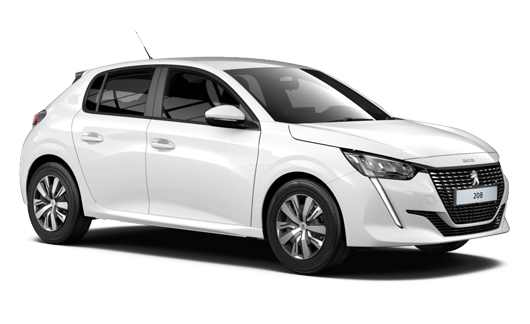
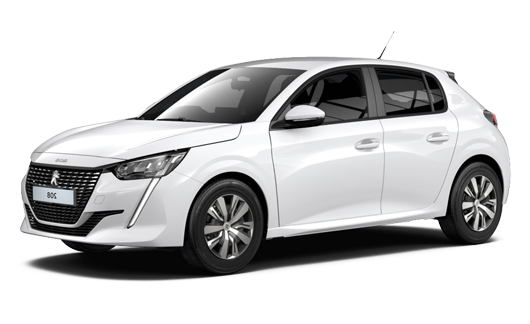
Fotos Añadidas

diff --git a/public/coches.html b/public/coches.html
@@ -64,24 +64,28 @@
                         <span>McLaren 540c</span>
                 </a>
                 <a href="./coche.html" class="coche">
-                    <img src="../src/mclaren540c.jpeg" alt="">
+                    <img src="../src/bmwM8.png" alt="">
                         <span>BMW M8</span>
                 </a>
                 <a href="./coche.html" class="coche">
-                    <img src="../src/mclaren540c.jpeg" alt="">
-                        <span>BMW M8</span>
+                    <img src="../src/audiR8V10.png" alt="">
+                        <span>Audi R8 V10</span>
                 </a>
                 <a href="./coche.html" class="coche">
-                    <img src="../src/mclaren540c.jpeg" alt="">
-                        <span>BMW M8</span>
+                    <img src="../src/jaguarFType.png" alt="">
+                        <span>Jaguar F Type</span>
                 </a>
                 <a href="./coche.html" class="coche">
-                    <img src="../src/mclaren540c.jpeg" alt="">
-                        <span>BMW M8</span>
+                    <img src="../src/porsche-taycan-turbo-s.jpg" alt="">
+                        <span>Porsche Taycan </span>
                 </a>
                 <a href="./coche.html" class="coche">
-                    <img src="../src/mclaren540c.jpeg" alt="">
-                        <span>BMW M8</span>
+                    <img src="../src/mercedesAMGGT.jpg" alt="">
+                        <span>Mercedes AMG GT</span>
+                </a>
+                <a href="./coche.html" class="coche">
+                    <img src="../src/teslaModelS.png" alt="">
+                        <span>Tesla Model S</span>
                 </a>
 
                 <div class="space"></div>
@@ -92,32 +96,32 @@
             <div class="scrollmost">
                 <div class="space"></div>
                 <a href="./coche.html" class="coche">
-                    <img src="../src/mclaren540c.jpeg" alt="">
-                        <span>McLaren 540c</span>
+                    <img src="../src/audiA7.png" alt="">
+                        <span>Audi A7</span>
                 </a>
                 <a href="./coche.html" class="coche">
-                    <img src="../src/mclaren540c.jpeg" alt="">
-                        <span>BMW M8</span>
+                    <img src="../src/mercedesCLA.png" alt="">
+                        <span>Mercedes CLA</span>
                 </a>
                 <a href="./coche.html" class="coche">
-                    <img src="../src/mclaren540c.jpeg" alt="">
-                        <span>BMW M8</span>
+                    <img src="../src/hondaAccord.png" alt="">
+                        <span>Honda Accord</span>
                 </a>
                 <a href="./coche.html" class="coche">
-                    <img src="../src/mclaren540c.jpeg" alt="">
-                        <span>BMW M8</span>
+                    <img src="../src/peugeot208.png" alt="">
+                        <span>Peugeot 208</span>
                 </a>
                 <a href="./coche.html" class="coche">
-                    <img src="../src/mclaren540c.jpeg" alt="">
-                        <span>BMW M8</span>
+                    <img src="../src/porschePanamera.png" alt="">
+                        <span>Porsche Panamera</span>
                 </a>
                 <a href="./coche.html" class="coche">
-                    <img src="../src/mclaren540c.jpeg" alt="">
-                        <span>BMW M8</span>
+                    <img src="../src/rollsroycePhantom.png" alt="">
+                        <span>Rolls Royce Phantom</span>
                 </a>
                 <a href="./coche.html" class="coche">
-                    <img src="../src/mclaren540c.jpeg" alt="">
-                        <span>BMW M8</span>
+                    <img src="../src/teslaModel3.jpg" alt="">
+                        <span>Tesla Model 3</span>
                 </a>
                 
                 <div class="space"></div>

diff --git a/public/index.html b/public/index.html
@@ -85,28 +85,28 @@
                         <span>McLaren 540c</span>
                 </a>
                 <a href="./coche.html" class="coche">
-                    <img src="../src/mclaren540c.jpeg" alt="">
+                    <img src="../src/bmwM8.png" alt="">
                         <span>BMW M8</span>
                 </a>
                 <a href="./coche.html" class="coche">
-                    <img src="../src/mclaren540c.jpeg" alt="">
-                        <span>BMW M8</span>
+                    <img src="../src/audiA7.png" alt="">
+                        <span>Audi A7</span>
                 </a>
                 <a href="./coche.html" class="coche">
-                    <img src="../src/mclaren540c.jpeg" alt="">
-                        <span>BMW M8</span>
+                    <img src="../src/mercedesAMGGT.jpg" alt="">
+                        <span>Mercedes AMG GT</span>
                 </a>
                 <a href="./coche.html" class="coche">
-                    <img src="../src/mclaren540c.jpeg" alt="">
-                        <span>BMW M8</span>
+                    <img src="../src/jaguarFType.png" alt="">
+                        <span>Jaguar F Type</span>
                 </a>
                 <a href="./coche.html" class="coche">
-                    <img src="../src/mclaren540c.jpeg" alt="">
-                        <span>BMW M8</span>
+                    <img src="../src/teslaModel3.jpg" alt="">
+                        <span>Tesla Model 3</span>
                 </a>
                 <a href="./coche.html" class="coche">
-                    <img src="../src/mclaren540c.jpeg" alt="">
-                        <span>BMW M8</span>
+                    <img src="../src/porsche-taycan-turbo-s.jpg" alt="">
+                        <span>Porsche Taycan</span>
                 </a>
                 <div class="space"></div>
 
